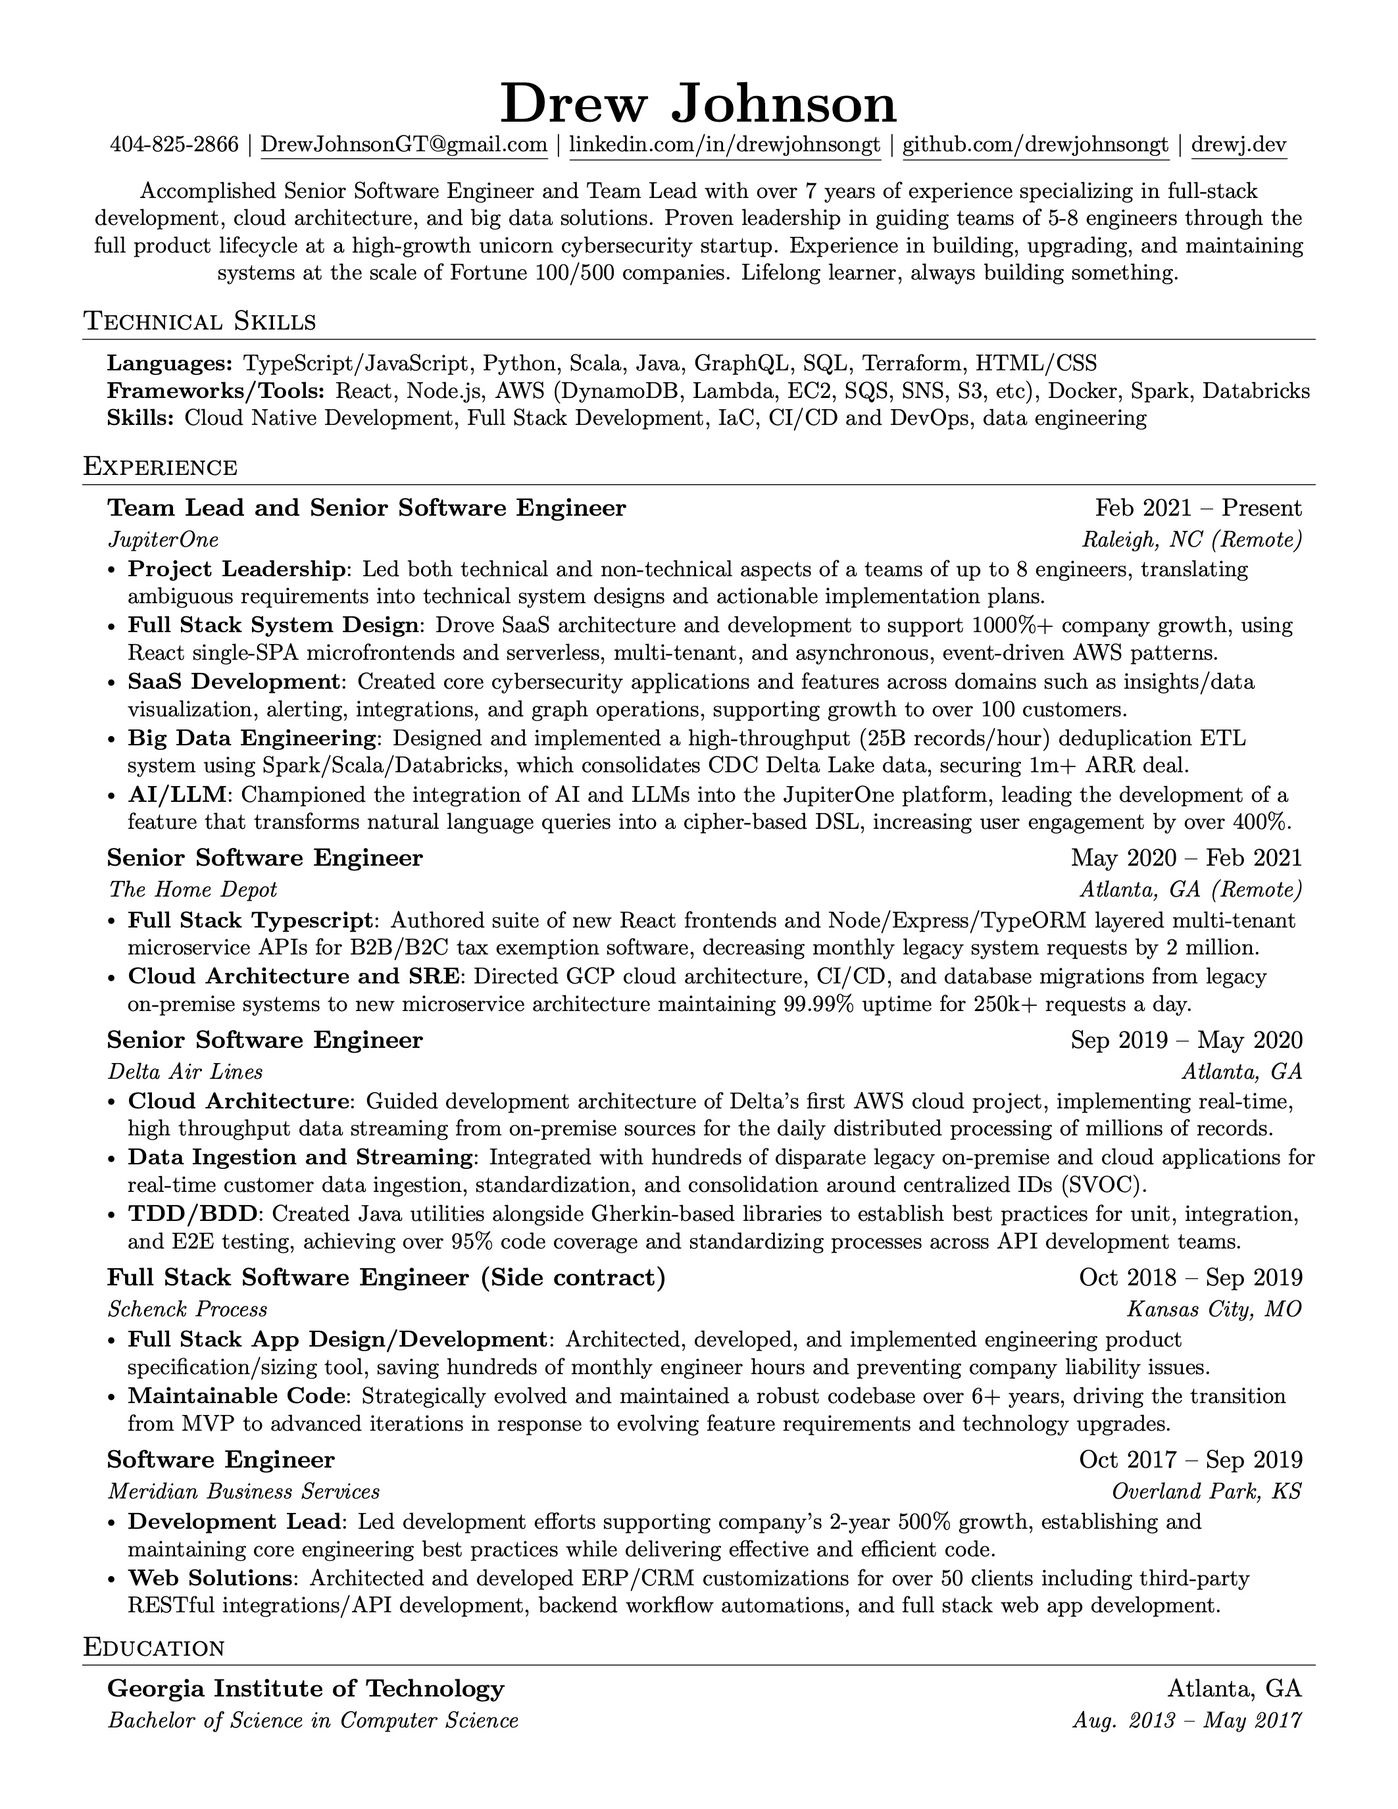
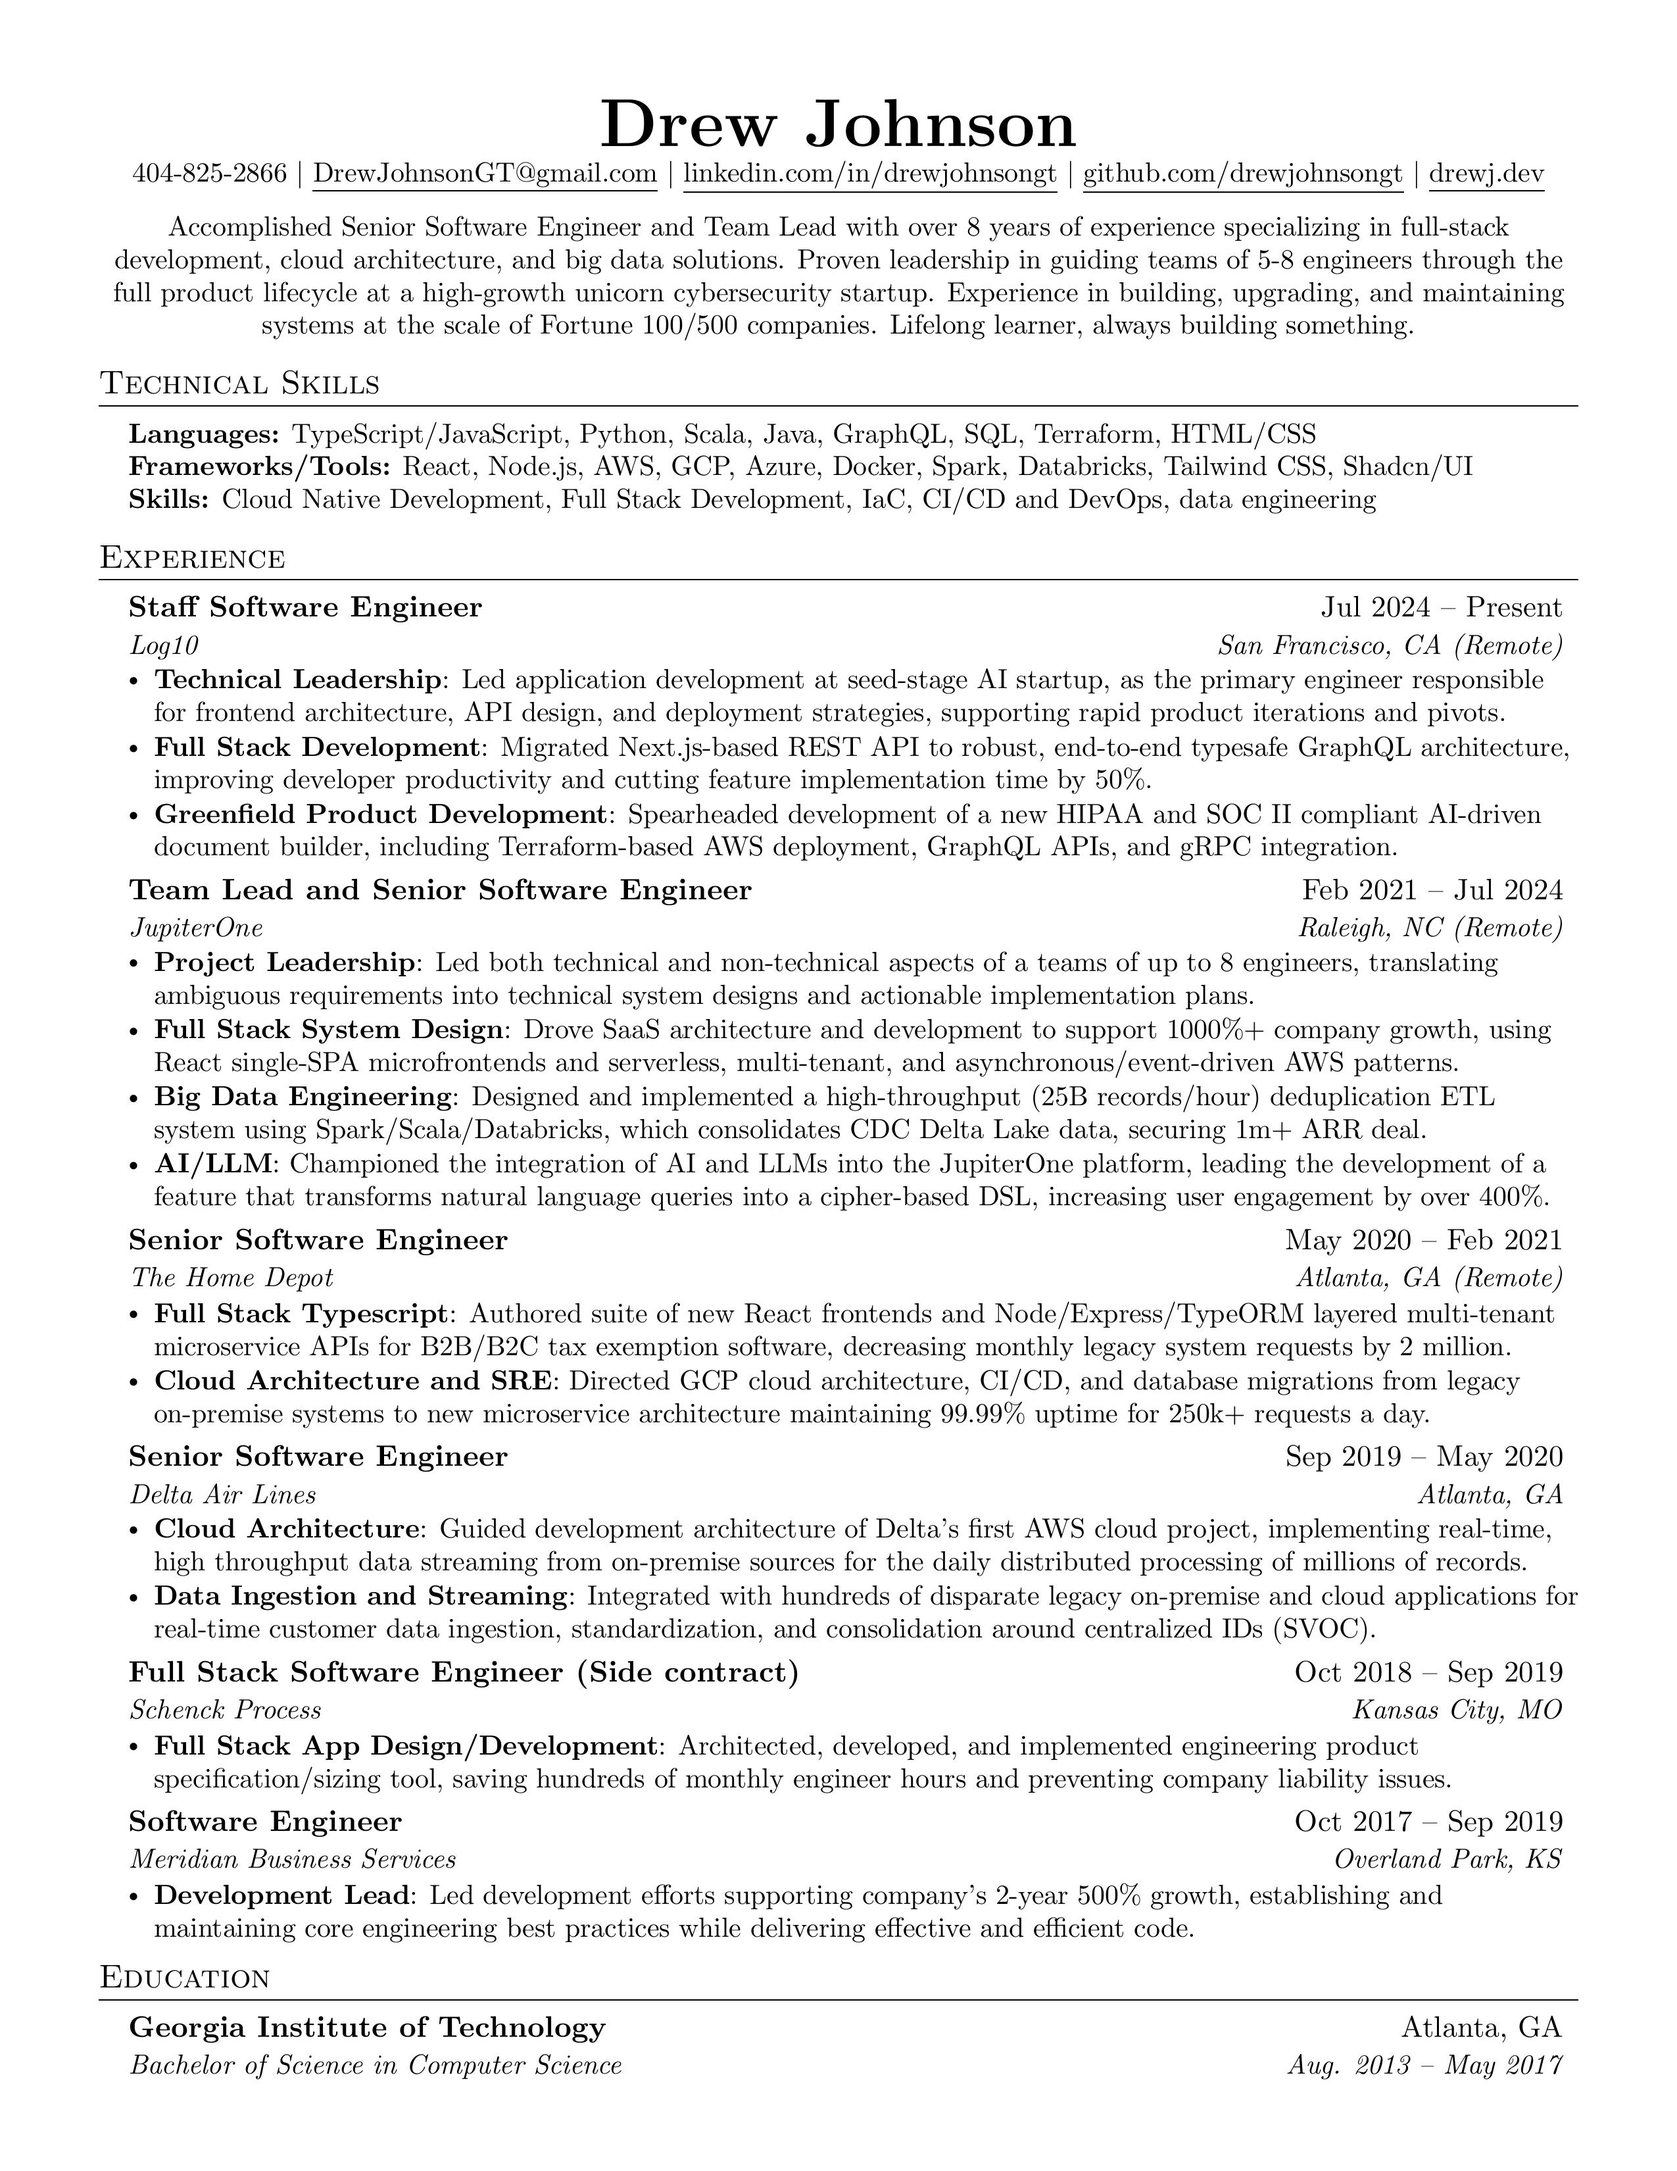
Resume and misc styles

Changed region(s): [[0.0621, 0.0618, 0.9318, 0.9582], [0.8075, 0.9273, 0.9318, 0.9582]]

diff --git a/src/app/about/page.tsx b/src/app/about/page.tsx
@@ -38,7 +38,7 @@ const AboutPage = () => {
       </div>
       <br />
       <p className="text-center text-xl">
-        A montage of my full Mandalorian build from Halloween last year
+        A montage of my full Mandalorian build
       </p>
       <br />
       <iframe

diff --git a/src/app/resume/page.tsx b/src/app/resume/page.tsx
@@ -20,7 +20,7 @@ const ResumePage = () => {
             download="DrewJohnson_resume.pdf"
             data-disable-nprogress={true}
           >
-            Download as PDF
+            Download PDF
           </a>
         </Button>
         <Image

diff --git a/public/resume.tex b/public/resume.tex
@@ -128,7 +128,7 @@
 
 %-----------OVERVIEW-------------
 
-\overviewSection {Accomplished Senior Software Engineer and Team Lead with over 8 years of experience specializing in full-stack development, cloud architecture, and big data solutions. Proven leadership in guiding teams of 5-8 engineers through the full product lifecycle at a high-growth unicorn cybersecurity startup. Experience in building, upgrading, and maintaining systems at the scale of Fortune 100/500 companies. Lifelong learner, always building something.}
+\overviewSection {Accomplished Staff Software Engineer and Team Lead with over 8 years of experience specializing in full-stack development, cloud architecture, and big data solutions. Proven leadership in guiding teams of 5-8 engineers through the full product lifecycle at a high-growth unicorn cybersecurity startup. Experience in building, upgrading, and maintaining systems at the scale of Fortune 100/500 companies. Lifelong learner, always building something.}
 
 %-----------TECHNICAL SKILLS-----------
 \section{Technical Skills}
